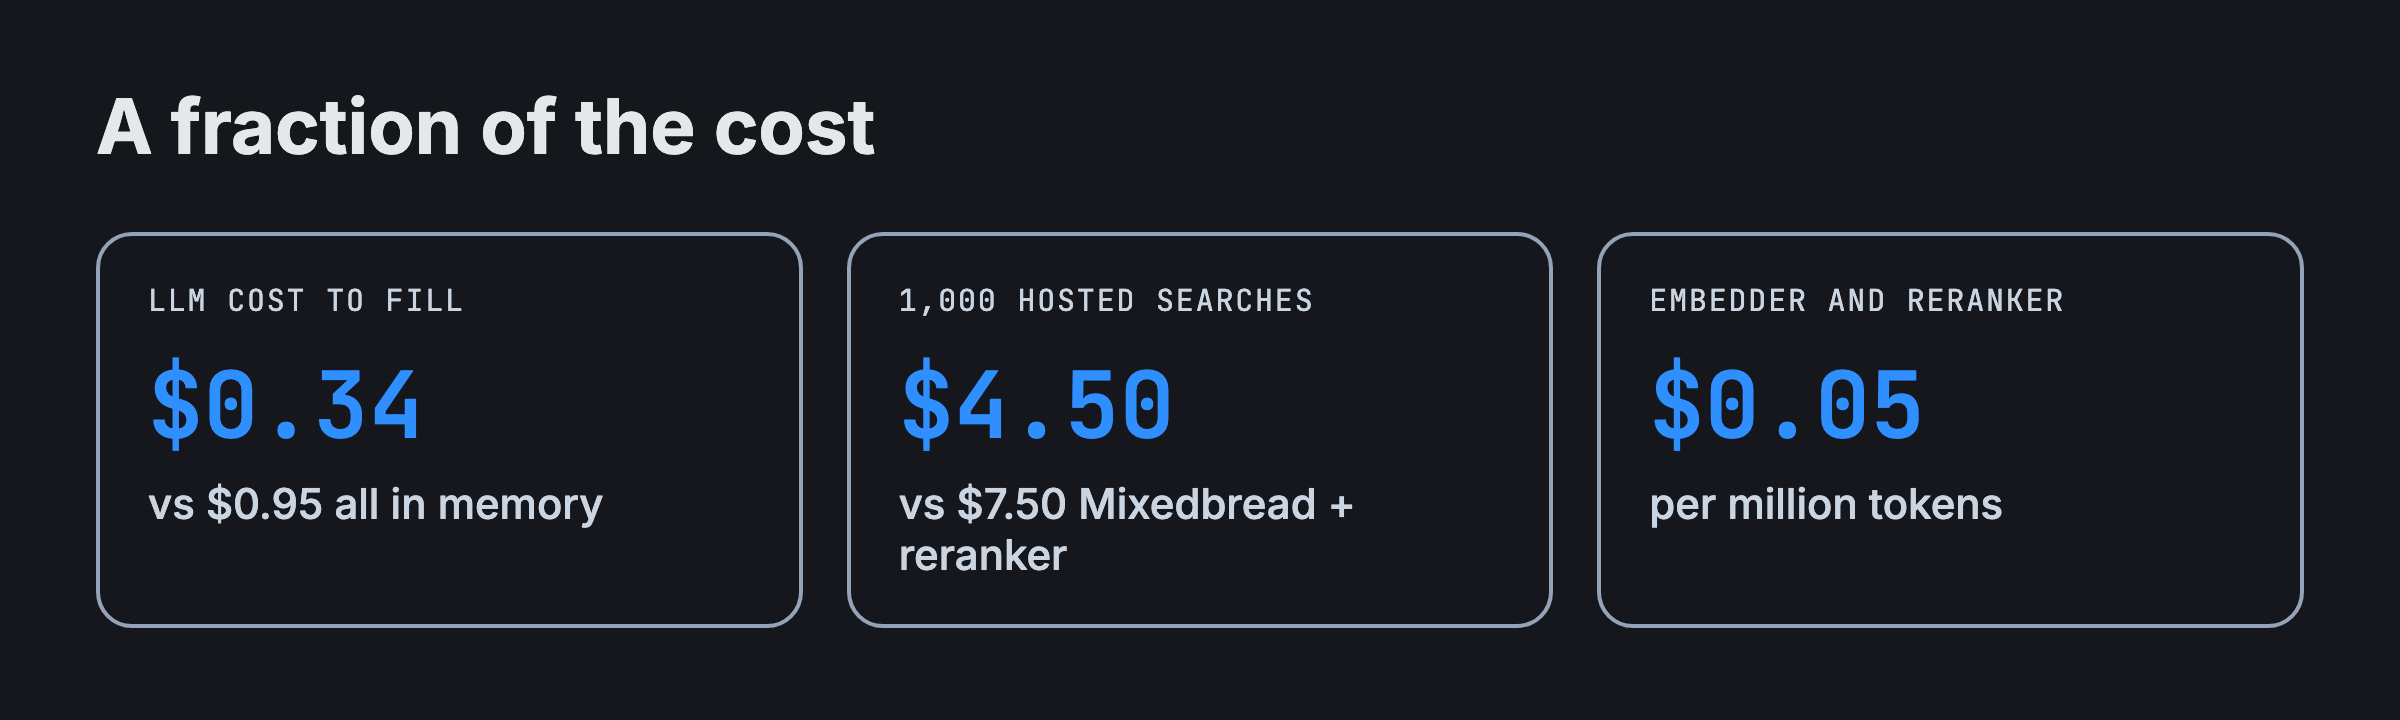
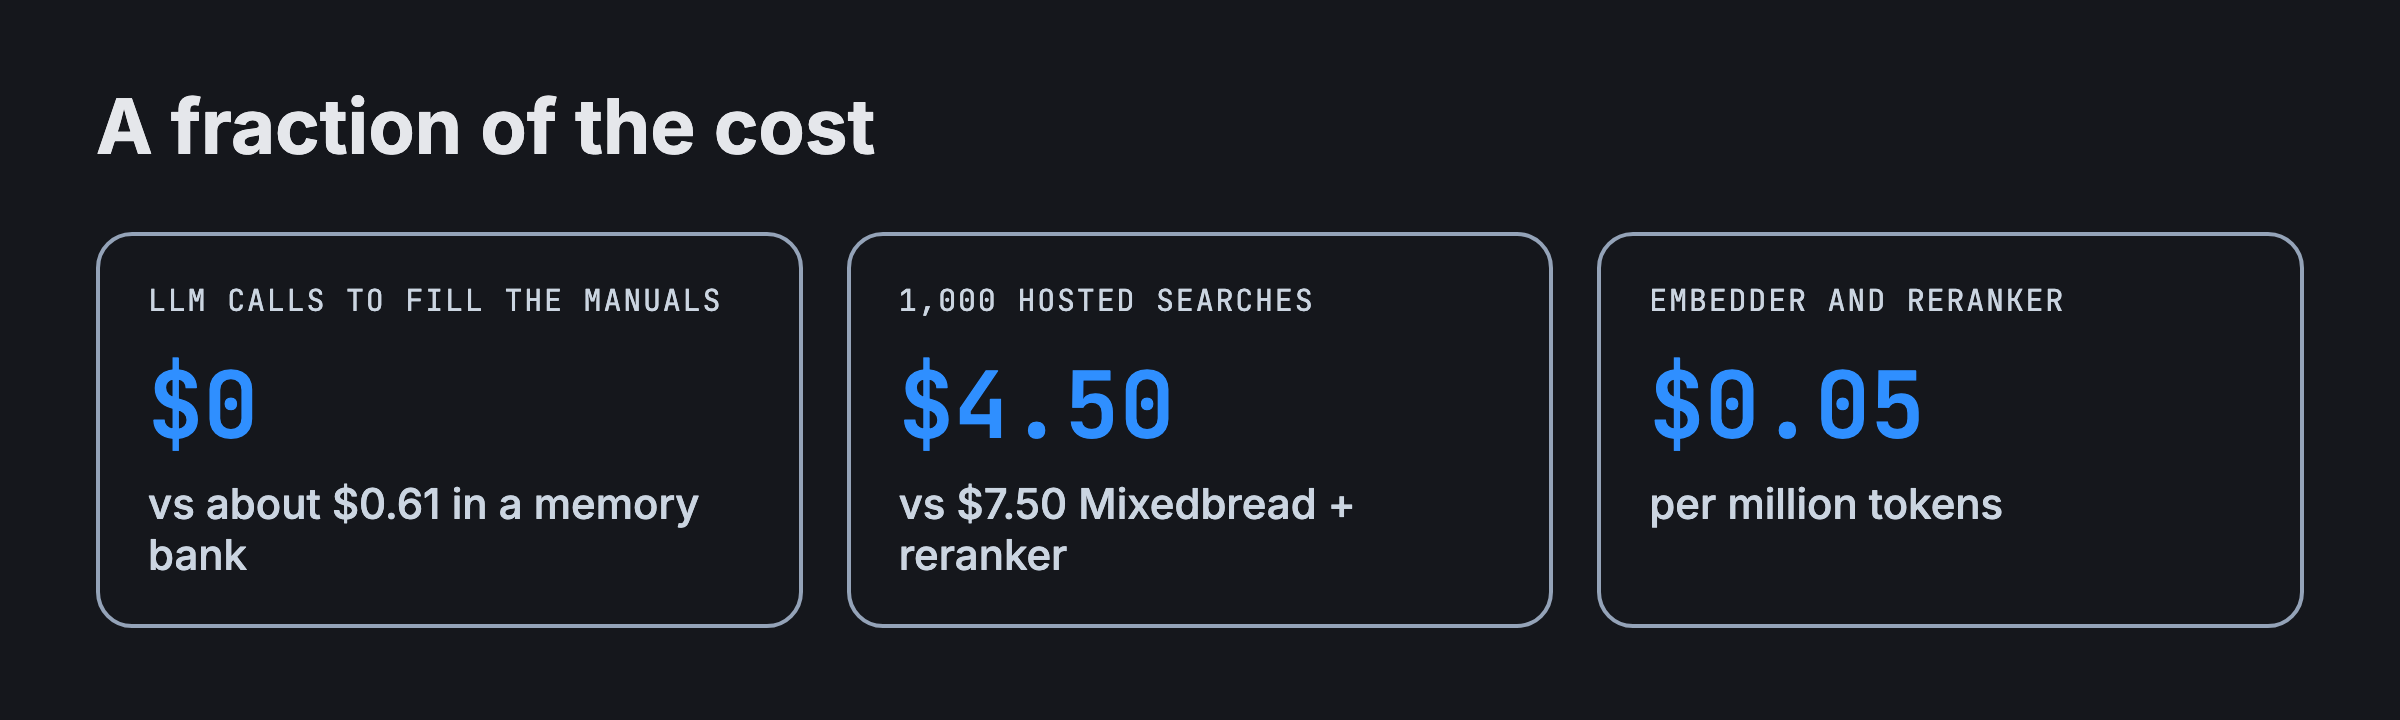
docs(blog): cover shows SupportBench scores only, no cost column

diff --git a/hindsight-docs/blog/2026-11-24-knowledge-banks.md b/hindsight-docs/blog/2026-11-24-knowledge-banks.md
@@ -1,6 +1,6 @@
 ---
 title: "Introducing Knowledge Banks: extending agent memory with SOTA multimodal search, at a fraction of the cost"
-description: "Knowledge banks give Hindsight agents your PDFs, images, audio and video, kept exactly as written. Search ranks first on LegalBench-RAG and ATM-Bench, a bank is about 3x cheaper to fill than memory, and linked to a memory bank it lifts a support agent from 75% to 85%."
+description: "Knowledge banks give Hindsight agents your PDFs, images, audio and video, kept exactly as written. Search ranks first on LegalBench-RAG and ATM-Bench, a bank costs no LLM calls to fill, and linked to a memory bank it lifts a support agent from 75% to 85%."
 authors: [nicoloboschi]
 date: 2026-11-24
 slug: "2026/11/24/knowledge-banks"
@@ -19,7 +19,7 @@ import TabItem from '@theme/TabItem';
 
 - **Memory, extended.** Link a knowledge bank to a memory bank and one reflect call reads both, with the documents as the reference. On a support-agent benchmark: 85% right, against 75% with everything in memory and 71% with everything in documents.
 - **State-of-the-art multimodal search.** First on LegalBench-RAG (contracts, 87.2) and ATM-Bench (a person's photos, videos and emails, 93.1). Second on ViDoRe V3 (enterprise PDFs), 1.5 points behind Mixedbread with its reranker.
-- **A fraction of the cost.** No LLM reads your documents, so a knowledge bank is about 3× cheaper to fill than putting the same manuals in memory. A hosted search costs $4.50 per 1,000, against $7.50 for Mixedbread with its reranker, and both models run on Hindsight Inference at $0.05 per million tokens.
+- **A fraction of the cost.** No LLM reads your documents: on the support benchmark, the manuals cost about $0.61 in LLM calls to put in a memory bank, and none in a knowledge bank, only the embedding. A hosted search costs $4.50 per 1,000, against $7.50 for Mixedbread with its reranker, and both models run on Hindsight Inference at $0.05 per million tokens.
 - **Open source and in Hindsight Cloud.** In Hindsight 1.3, and in [Hindsight Cloud](https://hindsight.vectorize.io) for every account.
 
 <!-- truncate -->
@@ -193,7 +193,7 @@ Memexa v2's recall counts the items it passes to its answer model, which may not
 
 </div>
 
-**Filling it: no LLM.** A knowledge bank costs only the embedding. On the support benchmark, putting the manuals into a memory bank cost **$0.95** in LLM calls, because retain reads every page. With the manuals in a knowledge bank and only the chats in memory, it cost **$0.34**: about 3× cheaper, and it scored higher. The linked setup sends the agent more context, so a question costs more: $0.00059 against $0.00031 with memory alone. On LLM spend, memory alone only catches up after about 2,200 questions.
+**Filling it: no LLM.** A knowledge bank costs only the embedding. On the support benchmark, filling one memory bank with the manuals and the chats cost **$0.95** in LLM calls. With the manuals in a knowledge bank and only the chats in memory, it cost **$0.34**, and it scored higher. The difference, about **$0.61**, is what retain spent reading the 837 pages of manuals; in a knowledge bank they cost only the embedding. The linked setup sends the agent more context, so a question costs more: $0.00059 against $0.00031 with memory alone. On LLM spend, memory alone only catches up after about 2,200 questions.
 
 **Searching.** On Hindsight Cloud, a search costs **$4.50 per 1,000**, reranking included. Mixedbread's list price, with its reranker, is $7.50 per 1,000. On your own server you pay only for the models you call.
 
